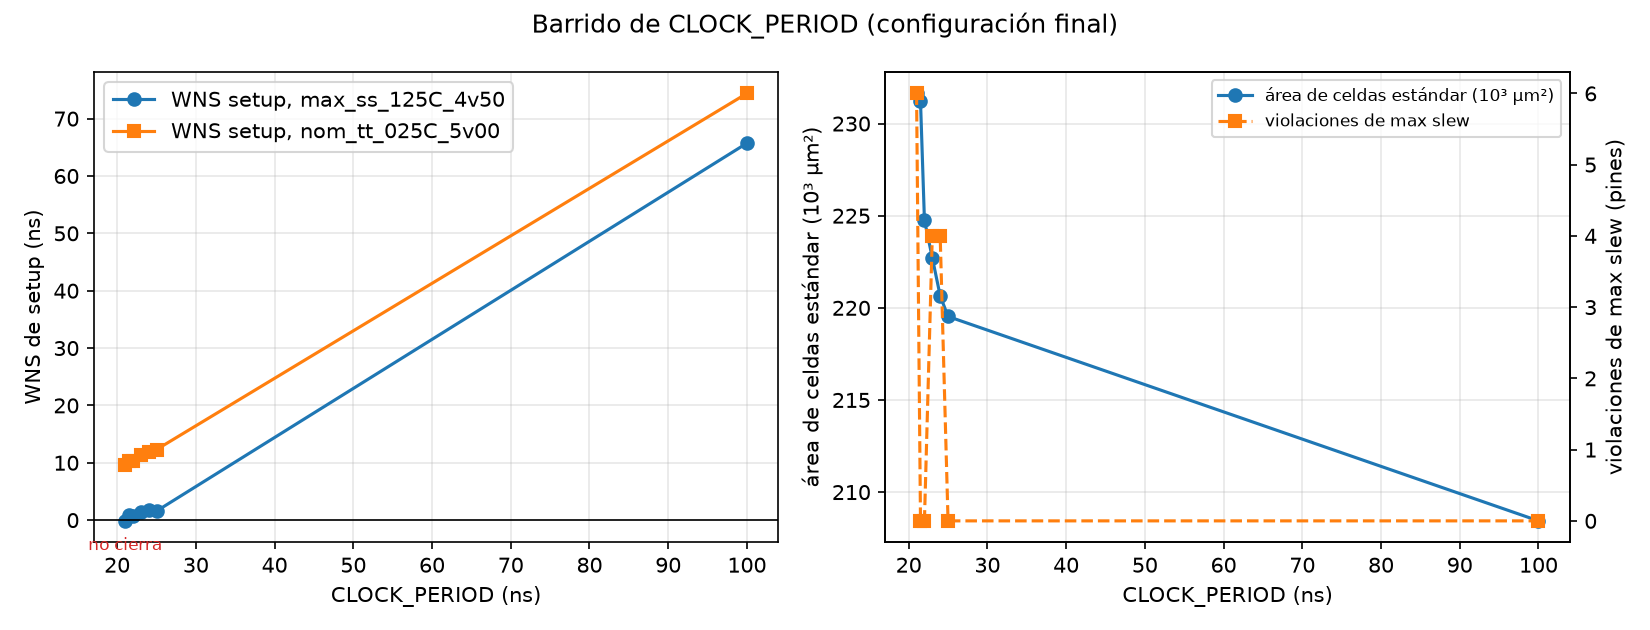
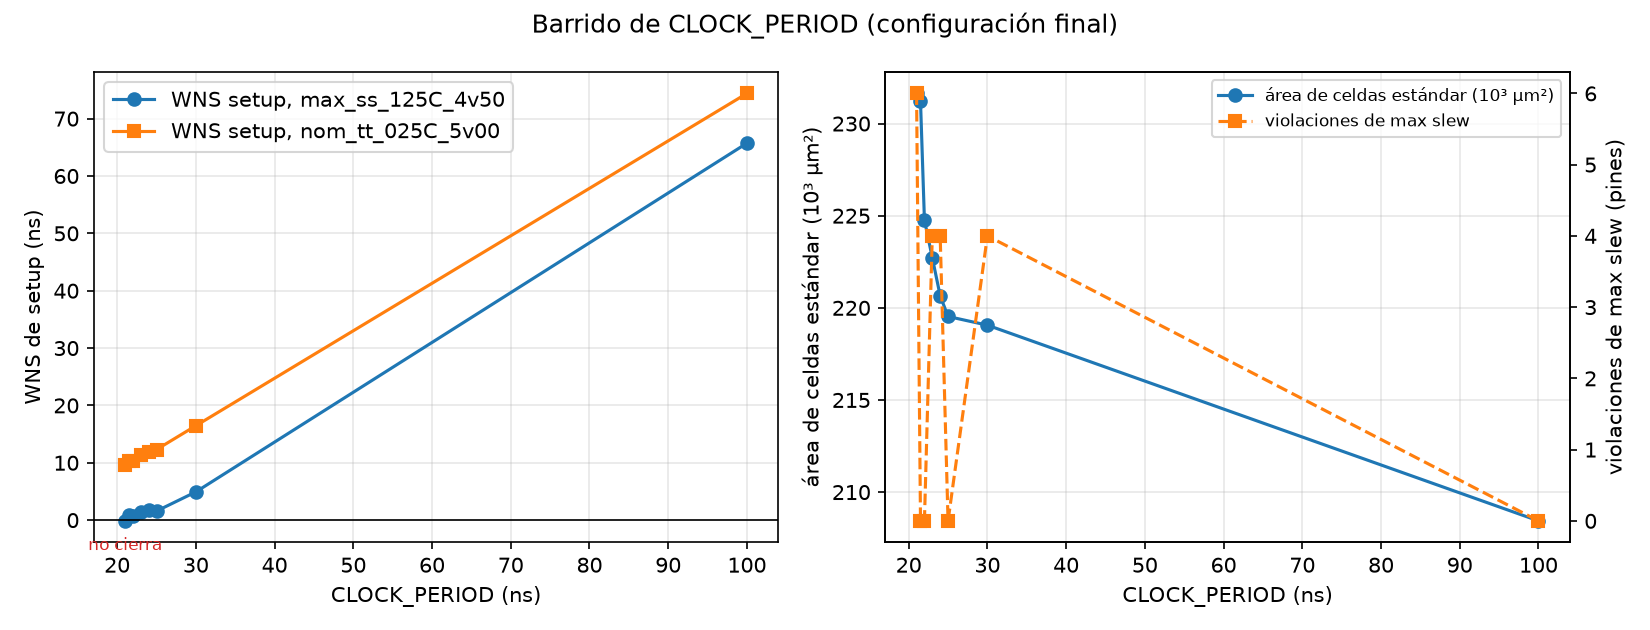
asic/final.md y las dos figuras regeneradas con los barridos completos; la serie de violaciones de slew del barrido de periodo corregida con los ocho puntos

diff --git a/asic/final.md b/asic/final.md
@@ -15,24 +15,25 @@ Esquina típica: `nom_tt_025C_5v00`; esquina más lenta: `max_ss_125C_4v50`; "pe
 
 ## Barrido de CLOCK_PERIOD con la configuración final (sección 3.4)
 
-Corridas f2_* (mismo RTL y configuración que la final, solo cambia CLOCK_PERIOD); el punto de 100 ns es la corrida final. Período mínimo 21,5 ns (46,5 MHz): f2_t21p5 cierra con WNS de setup 0,876 ns y TNS 0 en max_ss_125C_4v50, y f2_t21 no cierra por 0,129 ns (TNS -0,291 ns), con lo que la regla de la sesión de dejar 0,5 ns o menos entre el último período que cierra y el primero que no queda cerrada. A diferencia de lo que pasaba en v1, acá cada período da su propio layout: con los parásitos de cable medidos el resizer sigue encontrando qué reparar, así que el área de celdas sube de 208.439 µm² a 100 ns a 231.229 µm² a 21,5 ns y el WNS deja de bajar 1 ns por cada ns de período (1,579 a 25 ns, 1,755 a 24, 1,494 a 23, 0,656 a 22 y 0,876 a 21,5). Las violaciones de max slew son 0 a 100, 25, 22 y 21,5 ns, y 4 a 24 y 23 ns; la de max capacitancia es siempre 1 y es siempre el mismo pin, la raíz del árbol de reloj (asic/rom/resultados/final/avisos.md, aviso 4). Gráfico: docs/figuras/periodo.png (asic/graficos.py --periodo). Las rutas críticas por tramos están en asic/rutas.md.
+Corridas f2_* (mismo RTL y configuración que la final, solo cambia CLOCK_PERIOD); el punto de 100 ns es la corrida final. Período mínimo 21,5 ns (46,5 MHz): f2_t21p5 cierra con WNS de setup 0,876 ns y TNS 0 en max_ss_125C_4v50, y f2_t21 no cierra por 0,129 ns (TNS -0,291 ns), con lo que la regla de la sesión de dejar 0,5 ns o menos entre el último período que cierra y el primero que no queda cerrada. A diferencia de lo que pasaba en v1, acá cada período da su propio layout: con los parásitos de cable medidos el resizer sigue encontrando qué reparar, así que el área de celdas sube de 208.439 µm² a 100 ns a 231.229 µm² a 21,5 ns y el WNS deja de bajar 1 ns por cada ns de período (4,924 a 30 ns, 1,579 a 25, 1,755 a 24, 1,494 a 23, 0,656 a 22 y 0,876 a 21,5). Las violaciones de max slew son 0 a 100, 25, 22 y 21,5 ns, 4 a 30, 24 y 23 ns y 6 a 21 ns; la de max capacitancia es siempre 1 y es siempre el mismo pin, la raíz del árbol de reloj (asic/rom/resultados/final/avisos.md, aviso 4). Gráfico: docs/figuras/periodo.png (asic/graficos.py --periodo). Las rutas críticas por tramos están en asic/rutas.md.
 
 Esquina típica: `nom_tt_025C_5v00`; esquina más lenta: `max_ss_125C_4v50`; "peor" es la peor de las 9 esquinas. Generado por `asic/recolectar.py`.
 
 | corrida | T (ns) | setup WS tt | setup TNS tt | setup WS ss | setup TNS ss | hold WS tt | hold TNS tt | hold WS ss | hold TNS ss | setup WS peor | setup TNS peor | hold WS peor | hold TNS peor | cierra timing | área stdcell (µm²) | utilización | área die (µm²) | antena (nets) | DRC | LVS | cierra todo | slew (peor) | cap (peor) | celdas dly |
 |---|---|---|---|---|---|---|---|---|---|---|---|---|---|---|---|---|---|---|---|---|---|---|---|---|
 | final | 100 | 74.404 | 0 | 65.725 | 0 | 0.442 | 0 | 1.065 | 0 | 65.725 | 0 | 0.173 | 0 | sí | 208439 | 0.535 | 419131 | 0 | 0 | 0 | sí | 0 | 1 | 0 |
+| f2_t30 | 30 | 16.460 | 0 | 4.924 | 0 | 0.442 | 0 | 1.065 | 0 | 4.924 | 0 | 0.173 | 0 | sí | 219059 | 0.562 | 419131 | 0 | 0 | 0 | sí | 4 | 1 | 0 |
 | f2_t25 | 25 | 12.306 | 0 | 1.579 | 0 | 0.442 | 0 | 1.065 | 0 | 1.579 | 0 | 0.173 | 0 | sí | 219531 | 0.564 | 419131 | 0 | 0 | 0 | sí | 0 | 1 | 0 |
 | f2_t24 | 24 | 11.931 | 0 | 1.755 | 0 | 0.442 | 0 | 1.065 | 0 | 1.755 | 0 | 0.173 | 0 | sí | 220655 | 0.566 | 419131 | 0 | 0 | 0 | sí | 4 | 1 | 0 |
 | f2_t23 | 23 | 11.272 | 0 | 1.494 | 0 | 0.442 | 0 | 1.065 | 0 | 1.494 | 0 | 0.173 | 0 | sí | 222714 | 0.572 | 419131 | 0 | 0 | 0 | sí | 4 | 1 | 0 |
 | f2_t22 | 22 | 10.358 | 0 | 0.656 | 0 | 0.442 | 0 | 1.065 | 0 | 0.656 | 0 | 0.173 | 0 | sí | 224767 | 0.577 | 419131 | 0 | 0 | 0 | sí | 0 | 1 | 0 |
 | f2_t21p5 | 21.500 | 10.257 | 0 | 0.876 | 0 | 0.442 | 0 | 1.065 | 0 | 0.876 | 0 | 0.173 | 0 | sí | 231229 | 0.594 | 419131 | 0 | 0 | 0 | sí | 0 | 1 | 0 |
 | f2_t21 | 21 | 9.614 | 0 | -0.129 | -0.291 | 0.442 | 0 | 1.065 | 0 | -0.129 | -0.291 | 0.173 | 0 | no | 231638 | 0.595 | 419131 | 0 | 0 | 0 | no | 6 | 1 | 0 |
-| f2_t30 | incompleta |  |  |  |  |  |  |  |  |  |  |  |  |  |  |  |  |  |  |  |  |  |  |  |
 
 | corrida | área de celdas de síntesis (µm²) | área secuencial (µm²) | flip-flops | área espino_register_file (µm²) | área espino_alu (µm²) | área pochoco_cycle_counter (µm²) |
 |---|---|---|---|---|---|---|
 | final | 156098.477 | 63399.571 | 964 | 80348.710 | 10005.722 | 3942.579 |
+| f2_t30 | 156098.477 | 63399.571 | 964 | 80348.710 | 10005.722 | 3942.579 |
 | f2_t25 | 156098.477 | 63399.571 | 964 | 80348.710 | 10005.722 | 3942.579 |
 | f2_t24 | 156098.477 | 63399.571 | 964 | 80348.710 | 10005.722 | 3942.579 |
 | f2_t23 | 156098.477 | 63399.571 | 964 | 80348.710 | 10005.722 | 3942.579 |
@@ -42,7 +43,7 @@ Esquina típica: `nom_tt_025C_5v00`; esquina más lenta: `max_ss_125C_4v50`; "pe
 
 ## Barrido de FP_CORE_UTIL a 100 ns con la configuración final (sección 3.5)
 
-Corridas final (40 %) y u2_*. La columna utilización es la real que mide el flujo (design__instance__utilization), no la pedida: con el modelo de cable el resizer agrega celdas, así que la real queda bastante por encima de la pedida. El valor que el informe reporta como utilización máxima que cierra es el de FP_CORE_UTIL pedido en la corrida de menor die que cierra todo; las que fallan no tienen métricas finales y su extracto de la falla está en asic/rom/resultados/<tag>/falla.txt. Gráfico: docs/figuras/utilizacion.png (asic/graficos.py --util). La comparación con v1 (que cerraba hasta 78 % con un die de 0,216 mm²) está en docs/datos_informe.md, sección 3.5.
+Corridas final (40 %) y u2_*. La columna utilización es la real que mide el flujo (design__instance__utilization), no la pedida: con el modelo de cable el resizer agrega celdas, así que la real queda bastante por encima de la pedida. El valor que el informe reporta como utilización máxima que cierra es el de FP_CORE_UTIL pedido en la corrida de menor die que cierra todo; las que fallan no tienen métricas finales (la tabla las marca incompleta porque no hay final/metrics.json, pero ninguna se cortó por tiempo: las cinco fallaron por el diseño) y su extracto está en asic/rom/resultados/<tag>/falla.txt. Utilización máxima que cierra: 73 % (die 235.237 µm², 0,235 mm²), y 74 % es la primera que falla, así que la resolución queda en 1 punto. Dónde falla cada una: 74 y 75 % en OpenROAD.RepairDesignPostGRT (paso 41, el que agrega D23) con 18 y 77 instancias sin lugar; 78 % en OpenROAD.CTS (paso 35) con 36; 80 % en OpenROAD.RepairDesignPostGPL (paso 32) con 5; y 90 % en el placement global con [GPL-0301] Utilization 100.620 % exceeds 100%. Gráfico: docs/figuras/utilizacion.png (asic/graficos.py --util). La comparación con v1 (que cerraba hasta 78 % con un die de 0,216 mm²) está en docs/datos_informe.md, sección 3.5.
 
 Esquina típica: `nom_tt_025C_5v00`; esquina más lenta: `max_ss_125C_4v50`; "peor" es la peor de las 9 esquinas. Generado por `asic/recolectar.py`.
 
@@ -50,13 +51,93 @@ Esquina típica: `nom_tt_025C_5v00`; esquina más lenta: `max_ss_125C_4v50`; "pe
 |---|---|---|---|---|---|---|---|---|---|---|---|---|---|---|---|---|---|---|---|---|---|---|---|---|
 | final | 100 | 74.404 | 0 | 65.725 | 0 | 0.442 | 0 | 1.065 | 0 | 65.725 | 0 | 0.173 | 0 | sí | 208439 | 0.535 | 419131 | 0 | 0 | 0 | sí | 0 | 1 | 0 |
 | u2_u50 | 100 | 74.561 | 0 | 63.697 | 0 | 0.397 | 0 | 0.981 | 0 | 63.697 | 0 | 0.144 | 0 | sí | 203214 | 0.653 | 338033 | 0 | 0 | 0 | sí | 8 | 1 | 0 |
-| u2_u60 | incompleta |  |  |  |  |  |  |  |  |  |  |  |  |  |  |  |  |  |  |  |  |  |  |  |
-| u2_u70 | incompleta |  |  |  |  |  |  |  |  |  |  |  |  |  |  |  |  |  |  |  |  |  |  |  |
+| u2_u60 | 100 | 74.615 | 0 | 65.117 | 0 | 0.395 | 0 | 0.980 | 0 | 65.117 | 0 | 0.142 | 0 | sí | 199880 | 0.769 | 283758 | 0 | 0 | 0 | sí | 0 | 1 | 0 |
+| u2_u70 | 100 | 74.293 | 0 | 60.805 | 0 | 0.372 | 0 | 0.946 | 0 | 60.805 | 0 | 0.125 | 0 | sí | 196907 | 0.887 | 244851 | 0 | 0 | 0 | sí | 20 | 1 | 0 |
+| u2_u72 | 100 | 73.836 | 0 | 61.351 | 0 | 0.399 | 0 | 0.993 | 0 | 61.351 | 0 | 0.142 | 0 | sí | 197305 | 0.917 | 238352 | 0 | 0 | 0 | sí | 92 | 5 | 0 |
+| u2_u73 | 100 | 73.899 | 0 | 59.531 | 0 | 0.426 | 0 | 1.038 | 0 | 59.531 | 0 | 0.162 | 0 | sí | 196334 | 0.918 | 235237 | 0 | 0 | 0 | sí | 99 | 6 | 0 |
+| u2_u74 | incompleta |  |  |  |  |  |  |  |  |  |  |  |  |  |  |  |  |  |  |  |  |  |  |  |
+| u2_u75 | incompleta |  |  |  |  |  |  |  |  |  |  |  |  |  |  |  |  |  |  |  |  |  |  |  |
+| u2_u78 | incompleta |  |  |  |  |  |  |  |  |  |  |  |  |  |  |  |  |  |  |  |  |  |  |  |
+| u2_u80 | incompleta |  |  |  |  |  |  |  |  |  |  |  |  |  |  |  |  |  |  |  |  |  |  |  |
+| u2_u90 | incompleta |  |  |  |  |  |  |  |  |  |  |  |  |  |  |  |  |  |  |  |  |  |  |  |
 
 | corrida | área de celdas de síntesis (µm²) | área secuencial (µm²) | flip-flops | área espino_register_file (µm²) | área espino_alu (µm²) | área pochoco_cycle_counter (µm²) |
 |---|---|---|---|---|---|---|
 | final | 156098.477 | 63399.571 | 964 | 80348.710 | 10005.722 | 3942.579 |
 | u2_u50 | 156098.477 | 63399.571 | 964 | 80348.710 | 10005.722 | 3942.579 |
+| u2_u60 | 156098.477 | 63399.571 | 964 | 80348.710 | 10005.722 | 3942.579 |
+| u2_u70 | 156098.477 | 63399.571 | 964 | 80348.710 | 10005.722 | 3942.579 |
+| u2_u72 | 156098.477 | 63399.571 | 964 | 80348.710 | 10005.722 | 3942.579 |
+| u2_u73 | 156098.477 | 63399.571 | 964 | 80348.710 | 10005.722 | 3942.579 |
+
+## Estrategia 1 con la configuración final, reproducción independiente (sección 3.2)
+
+Corrida s3_t100: la misma configuración y el mismo RTL que la corrida final, con otro tag. Sirve de reproducción: si da los mismos números que final, el flujo es determinista con esta configuración. El barrido de período de la estrategia 1 es el de las f2_* de más arriba; no se repitió con otro tag.
+
+Esquina típica: `nom_tt_025C_5v00`; esquina más lenta: `max_ss_125C_4v50`; "peor" es la peor de las 9 esquinas. Generado por `asic/recolectar.py`.
+
+| corrida | T (ns) | setup WS tt | setup TNS tt | setup WS ss | setup TNS ss | hold WS tt | hold TNS tt | hold WS ss | hold TNS ss | setup WS peor | setup TNS peor | hold WS peor | hold TNS peor | cierra timing | área stdcell (µm²) | utilización | área die (µm²) | antena (nets) | DRC | LVS | cierra todo | slew (peor) | cap (peor) | celdas dly |
+|---|---|---|---|---|---|---|---|---|---|---|---|---|---|---|---|---|---|---|---|---|---|---|---|---|
+| final | 100 | 74.404 | 0 | 65.725 | 0 | 0.442 | 0 | 1.065 | 0 | 65.725 | 0 | 0.173 | 0 | sí | 208439 | 0.535 | 419131 | 0 | 0 | 0 | sí | 0 | 1 | 0 |
+| s3_t100 | 100 | 74.404 | 0 | 65.725 | 0 | 0.442 | 0 | 1.065 | 0 | 65.725 | 0 | 0.173 | 0 | sí | 208439 | 0.535 | 419131 | 0 | 0 | 0 | sí | 0 | 1 | 0 |
+
+| corrida | área de celdas de síntesis (µm²) | área secuencial (µm²) | flip-flops | área espino_register_file (µm²) | área espino_alu (µm²) | área pochoco_cycle_counter (µm²) |
+|---|---|---|---|---|---|---|
+| final | 156098.477 | 63399.571 | 964 | 80348.710 | 10005.722 | 3942.579 |
+| s3_t100 | 156098.477 | 63399.571 | 964 | 80348.710 | 10005.722 | 3942.579 |
+
+## Estrategia 2 de memoria con la configuración final (sección 3.2)
+
+Corridas s4_* con asic/ff/config_final.yaml: memoria unificada de instrucciones y datos en flip-flops, el core nuevo con EarlyRead = 0 (el valor por omisión cuando MemStrategy = 2: la memoria en flip-flops lee registrado y no puede anticipar la lectura del banco) y las mismas perillas de flujo de la corrida final, incluido el modelo de cable. Por eso su CPI es el de v1 (2,665 en el juego completo, docs/verificacion/integracion_01_make_check.txt) y no el 1,665 de la estrategia 1. Comparar con las s2_* de v1 (asic/barrido.md), que usaban asic/ff/config.yaml.
+
+Esquina típica: `nom_tt_025C_5v00`; esquina más lenta: `max_ss_125C_4v50`; "peor" es la peor de las 9 esquinas. Generado por `asic/recolectar.py`.
+
+| corrida | T (ns) | setup WS tt | setup TNS tt | setup WS ss | setup TNS ss | hold WS tt | hold TNS tt | hold WS ss | hold TNS ss | setup WS peor | setup TNS peor | hold WS peor | hold TNS peor | cierra timing | área stdcell (µm²) | utilización | área die (µm²) | antena (nets) | DRC | LVS | cierra todo | slew (peor) | cap (peor) | celdas dly |
+|---|---|---|---|---|---|---|---|---|---|---|---|---|---|---|---|---|---|---|---|---|---|---|---|---|
+| s4_t100 | 100 | 72.771 | 0 | 55.558 | 0 | 0.439 | 0 | 1.060 | 0 | 55.558 | 0 | 0.171 | 0 | sí | 977015 | 0.562 | 1801610 | 0 | 0 | 0 | sí | 62 | 14 | 0 |
+| s4_t65 | 65 | 41.084 | 0 | 20.558 | 0 | 0.439 | 0 | 1.060 | 0 | 20.558 | 0 | 0.171 | 0 | sí | 977015 | 0.562 | 1801610 | 0 | 0 | 0 | sí | 62 | 14 | 0 |
+| s4_t60 | 60 | 36.084 | 0 | 15.558 | 0 | 0.439 | 0 | 1.060 | 0 | 15.558 | 0 | 0.171 | 0 | sí | 977015 | 0.562 | 1801610 | 0 | 0 | 0 | sí | 62 | 14 | 0 |
+| s4_t55 | 55 | 31.084 | 0 | 10.558 | 0 | 0.439 | 0 | 1.060 | 0 | 10.558 | 0 | 0.171 | 0 | sí | 977015 | 0.562 | 1801610 | 0 | 0 | 0 | sí | 62 | 14 | 0 |
+| s4_t50 | 50 | 26.834 | 0 | 6.939 | 0 | 0.439 | 0 | 1.060 | 0 | 6.939 | 0 | 0.171 | 0 | sí | 977125 | 0.562 | 1801610 | 0 | 0 | 0 | sí | 64 | 13 | 0 |
+| s4_t45 | 45 | 24.513 | 0 | 6.802 | 0 | 0.439 | 0 | 1.060 | 0 | 6.802 | 0 | 0.171 | 0 | sí | 978190 | 0.563 | 1801610 | 0 | 0 | 0 | sí | 49 | 15 | 0 |
+| s4_t42 | 42 | 22.385 | 0 | 5.431 | 0 | 0.439 | 0 | 1.060 | 0 | 5.431 | 0 | 0.171 | 0 | sí | 980598 | 0.564 | 1801610 | 0 | 0 | 0 | sí | 52 | 11 | 0 |
+| s4_t40 | incompleta |  |  |  |  |  |  |  |  |  |  |  |  |  |  |  |  |  |  |  |  |  |  |  |
+
+| corrida | área de celdas de síntesis (µm²) | área secuencial (µm²) | flip-flops | área espino_register_file (µm²) | área espino_alu (µm²) | área pochoco_cycle_counter (µm²) |
+|---|---|---|---|---|---|---|
+| s4_t100 | 696640.134 | 346545.248 | 4673 | 80348.710 | 10005.722 | 3942.579 |
+| s4_t65 | 696640.134 | 346545.248 | 4673 | 80348.710 | 10005.722 | 3942.579 |
+| s4_t60 | 696640.134 | 346545.248 | 4673 | 80348.710 | 10005.722 | 3942.579 |
+| s4_t55 | 696640.134 | 346545.248 | 4673 | 80348.710 | 10005.722 | 3942.579 |
+| s4_t50 | 696640.134 | 346545.248 | 4673 | 80348.710 | 10005.722 | 3942.579 |
+| s4_t45 | 696640.134 | 346545.248 | 4673 | 80348.710 | 10005.722 | 3942.579 |
+| s4_t42 | 696640.134 | 346545.248 | 4673 | 80348.710 | 10005.722 | 3942.579 |
+
+## El pipeline sin B2 con la configuración final (sección 3.4, efecto de B2)
+
+Corridas pr_* en el worktree build/exp_pipeline (rama exp/pipeline, asic/rom/config_final.yaml: la configuración final de D23 aplicada al RTL del frente A sin el offset de byte de la carga registrado en la LSU). Mide cuánto aporta B2 con el flujo final, igual que exp/lsu-offset lo midió con el flujo de v1. El CPI es el mismo que el de la corrida final (1,665): B2 no cambia ningún ciclo, solo acorta la ruta de alineación y write-back. Período mínimo sin B2: 22,5 ns (44,4 MHz); pr_t22p5 cierra con WNS 0,007 ns y TNS 0 en max_ss_125C_4v50 y pr_t22 no cierra por 0,597 ns (TNS -3,869), con lo que la regla de 0,5 ns queda cerrada. Con B2 el mínimo es 21,5 ns, así que B2 compra 1 ns de período y 1,2 MIPS (26,7 contra 27,9). Comparar contra las f2_* del mismo período.
+
+Esquina típica: `nom_tt_025C_5v00`; esquina más lenta: `max_ss_125C_4v50`; "peor" es la peor de las 9 esquinas. Generado por `asic/recolectar.py`.
+
+| corrida | T (ns) | setup WS tt | setup TNS tt | setup WS ss | setup TNS ss | hold WS tt | hold TNS tt | hold WS ss | hold TNS ss | setup WS peor | setup TNS peor | hold WS peor | hold TNS peor | cierra timing | área stdcell (µm²) | utilización | área die (µm²) | antena (nets) | DRC | LVS | cierra todo | slew (peor) | cap (peor) | celdas dly |
+|---|---|---|---|---|---|---|---|---|---|---|---|---|---|---|---|---|---|---|---|---|---|---|---|---|
+| pr_t100 | 100 | 74.479 | 0 | 65.710 | 0 | 0.407 | 0 | 1.001 | 0 | 65.710 | 0 | 0.151 | 0 | sí | 208390 | 0.535 | 418503 | 0 | 0 | 0 | sí | 0 | 1 | 0 |
+| pr_t24 | 24 | 11.920 | 0 | 1.556 | 0 | 0.409 | 0 | 1.007 | 0 | 1.556 | 0 | 0.152 | 0 | sí | 221838 | 0.570 | 418503 | 0 | 0 | 0 | sí | 2 | 1 | 0 |
+| pr_t23 | 23 | 10.877 | 0 | 0.463 | 0 | 0.409 | 0 | 1.005 | 0 | 0.463 | 0 | 0.152 | 0 | sí | 224404 | 0.577 | 418503 | 0 | 0 | 0 | sí | 2 | 1 | 0 |
+| pr_t22p5 | 22.500 | 10.409 | 0 | 0.007 | 0 | 0.410 | 0 | 1.007 | 0 | 0.007 | 0 | 0.152 | 0 | sí | 227032 | 0.583 | 418503 | 0 | 0 | 0 | sí | 2 | 1 | 0 |
+| pr_t22 | 22 | 9.852 | 0 | -0.597 | -3.869 | 0.408 | 0 | 1.005 | 0 | -0.597 | -3.869 | 0.151 | 0 | no | 228523 | 0.587 | 418503 | 0 | 0 | 0 | no | 2 | 1 | 0 |
+| pr_t21p5 | 21.500 | 9.362 | 0 | -0.938 | -178.821 | 0.409 | 0 | 1.006 | 0 | -0.938 | -178.821 | 0.151 | 0 | no | 228035 | 0.586 | 418503 | 0 | 0 | 0 | no | 0 | 1 | 0 |
+| pr_t21 | 21 | 8.768 | 0 | -1.634 | -542.714 | 0.410 | 0 | 1.007 | 0 | -1.634 | -542.714 | 0.152 | 0 | no | 227478 | 0.585 | 418503 | 0 | 0 | 0 | no | 0 | 1 | 0 |
+
+| corrida | área de celdas de síntesis (µm²) | área secuencial (µm²) | flip-flops | área espino_register_file (µm²) | área espino_alu (µm²) | área pochoco_cycle_counter (µm²) |
+|---|---|---|---|---|---|---|
+| pr_t100 | 155854.810 | 63272.250 | 962 | 80348.710 | 10005.722 | 3942.579 |
+| pr_t24 | 155854.810 | 63272.250 | 962 | 80348.710 | 10005.722 | 3942.579 |
+| pr_t23 | 155854.810 | 63272.250 | 962 | 80348.710 | 10005.722 | 3942.579 |
+| pr_t22p5 | 155854.810 | 63272.250 | 962 | 80348.710 | 10005.722 | 3942.579 |
+| pr_t22 | 155854.810 | 63272.250 | 962 | 80348.710 | 10005.722 | 3942.579 |
+| pr_t21p5 | 155854.810 | 63272.250 | 962 | 80348.710 | 10005.722 | 3942.579 |
+| pr_t21 | 155854.810 | 63272.250 | 962 | 80348.710 | 10005.722 | 3942.579 |
 
 ## Historia: la corrida final de v1 y su barrido de período
 

diff --git a/docs/cambios_informe.md b/docs/cambios_informe.md
@@ -790,7 +790,7 @@ del período.
 | Efecto de D20 | 223 | "el período mínimo bajó de 42 a 25 ns y las violaciones de max slew de 2.201 a 546 pines" | el período mínimo bajó de 42 a **24,5** ns (corrección de v1), y la cadena sigue: a 25,5 ns con el pipeline nuevo y a 21,5 ns con el modelo de cable. El slew baja de 2.201 a 546 y de ahí a **0** | `asic/rom/resultados/p1_t100/metrics.json` (2201 pines, 181.137 µm²), `v1_final/metrics.json` (546) y `final/metrics.json` (0); `asic/exploraciones.md`, filas `exp/pipeline-b2` (25,5 ns) y `exp/candidata-rc` (21,5 ns) |
 | "Esas violaciones no son criterio de cierre ... 5,41 ns dentro de los 7 ns de la biblioteca" | 223 | peor slew 5,41 ns en la esquina lenta, límite del flujo 3 ns | **el argumento se cae**: 0 violaciones en las nueve esquinas. El 5,414 ns es verificable pero es de v1 | `asic/rom/resultados/v1_final/layout/slew.txt` (546 pines en 520 celdas, peores: `u_soc.u_core.u_rf/fanout35` y `fanout34` con 5,414 ns) y `asic/rom/resultados/final/layout/slew.txt` (0 pines en 0 celdas) |
 | Párrafo nuevo: el modelo de cable | tras 223 | no está en el informe | tech LEF 0,2752 ohm/µm y 64,3 aF/µm contra 0,599 / 0,549 / 0,498 ohm/µm y 188,4 / 166,3 / 148,0 aF/µm medidos (max / nom / min) por regresión sobre 2.399 nets; factores 2,93 / 2,59 / 2,30 en capacidad y 2,18 / 1,99 / 1,81 en resistencia. Tabla del tech LEF por capa: Metal1 0,39130 ohm/µm y 9,2000e-05 pF/µm, Metal2 y Metal3 y Metal4 0,32143, Metal5 0,13636 | `asic/modelo_cable.md`, secciones 1 y 2; `docs/modelo_cable.md`, secciones 1 a 3; `asic/rom/config.yaml`, comentario de las líneas 61 a 80 |
-| Párrafo nuevo: las 0 violaciones de slew, en qué corridas | tras 223 | no está | **0 violaciones de max slew en las nueve esquinas a 100 ns y a 21,5 ns**; 1 de capacitancia, que es la raíz del árbol de reloj. Pero **no** en todo el barrido: `co_rc_t24` y `co_rc_t23` dan 4 pines y `co_rc_t21` (el punto que no cierra) da 6 | `design__max_slew_violation__count` de `final` (0), `f2_t21p5` (0), `co_rc_t25` (0), `co_rc_t24` (4), `co_rc_t23` (4), `co_rc_t22` (0) y `co_rc_t21` (6); `docs/modelo_cable.md`, sección 4, tabla |
+| Párrafo nuevo: las 0 violaciones de slew, en qué corridas | tras 223 | no está | **0 violaciones de max slew en las nueve esquinas a 100 ns y a 21,5 ns**; 1 de capacitancia, que es la raíz del árbol de reloj. Pero **no** en todo el barrido: la serie de los ocho puntos es 0 (100 ns), 4 (30), 0 (25), 4 (24), 4 (23), 0 (22), 0 (21,5) y 6 (21, el punto que no cierra) | `design__max_slew_violation__count` de `final` y de cada `f2_*/metrics.json`; `docs/modelo_cable.md`, sección 4, tabla |
 | Párrafo nuevo: el mismo flujo sobre el RTL de v1 | tras 223 | no está | la configuración se corrió sobre los **dos** RTL, para que la comparación fuera del diseño y no de la herramienta: el de v1 cierra a 22 ns (45,5 MHz, 17,1 MIPS, 214.348 µm²; a 21,5 falla por 0,383 ns) y el nuevo a 21,5 ns (46,5 MHz, 27,9 MIPS). El nanosegundo de desventaja que el pipeline nuevo tenía con la configuración de v1 (25,5 contra 24,5 ns) era de la herramienta | `docs/modelo_cable.md`, sección 4, tabla y punto 2 (tags `co_rcm_*` en `asic/main_rc/resultados/`); `asic/exploraciones.md`, fila "main con LAYERS_RC"; `asic/rutas.md`, sección `co_rcm_t22` |
 
 ## Sección 3.4.2. Timing, ruta crítica (líneas 225 a 246)

diff --git a/docs/datos_informe.md b/docs/datos_informe.md
@@ -217,10 +217,13 @@ las mismas que daría la candidata sin modelo de cable.
   231.229 a 21,5 ns y 231.638 a 21 ns; celdas estándar 9.928 a 100 ns y 9.946 a 21,5 ns;
   cables 377.509 µm a 100 ns y 386.712 a 21,5 ns; WNS en `max_ss` 0,656 ns a 22 ns y
   0,876 ns a 21,5 ns, es decir **mejor a 21,5 que a 22**.
-- **Las 0 violaciones de max slew no valen en todo el barrido.** A 100 ns, a 22 ns y a
-  21,5 ns son 0 (`design__max_slew_violation__count` de cada `metrics.json`), y a 21 ns son
-  6. La violación de max capacitancia es 1 en todas las corridas y es siempre el mismo pin
-  (ver 3.6).
+- **Las 0 violaciones de max slew no valen en todo el barrido.** La serie completa
+  (`design__max_slew_violation__count` de cada `metrics.json`) es **0** a 100 ns, **4** a 30,
+  **0** a 25, **4** a 24, **4** a 23, **0** a 22, **0** a 21,5 y **6** a 21 ns: sube y baja, sin
+  relación monótona con el período, porque cada corrida tiene su propio layout. Lo que sí se puede
+  afirmar es que la corrida final y la del período mínimo, que son las dos que el informe reporta,
+  tienen 0 en las nueve esquinas. La violación de max capacitancia es 1 en todas las corridas del
+  barrido y es siempre el mismo pin (ver 3.6).
 
 ### Comparación diseño contra diseño con la misma configuración
 
